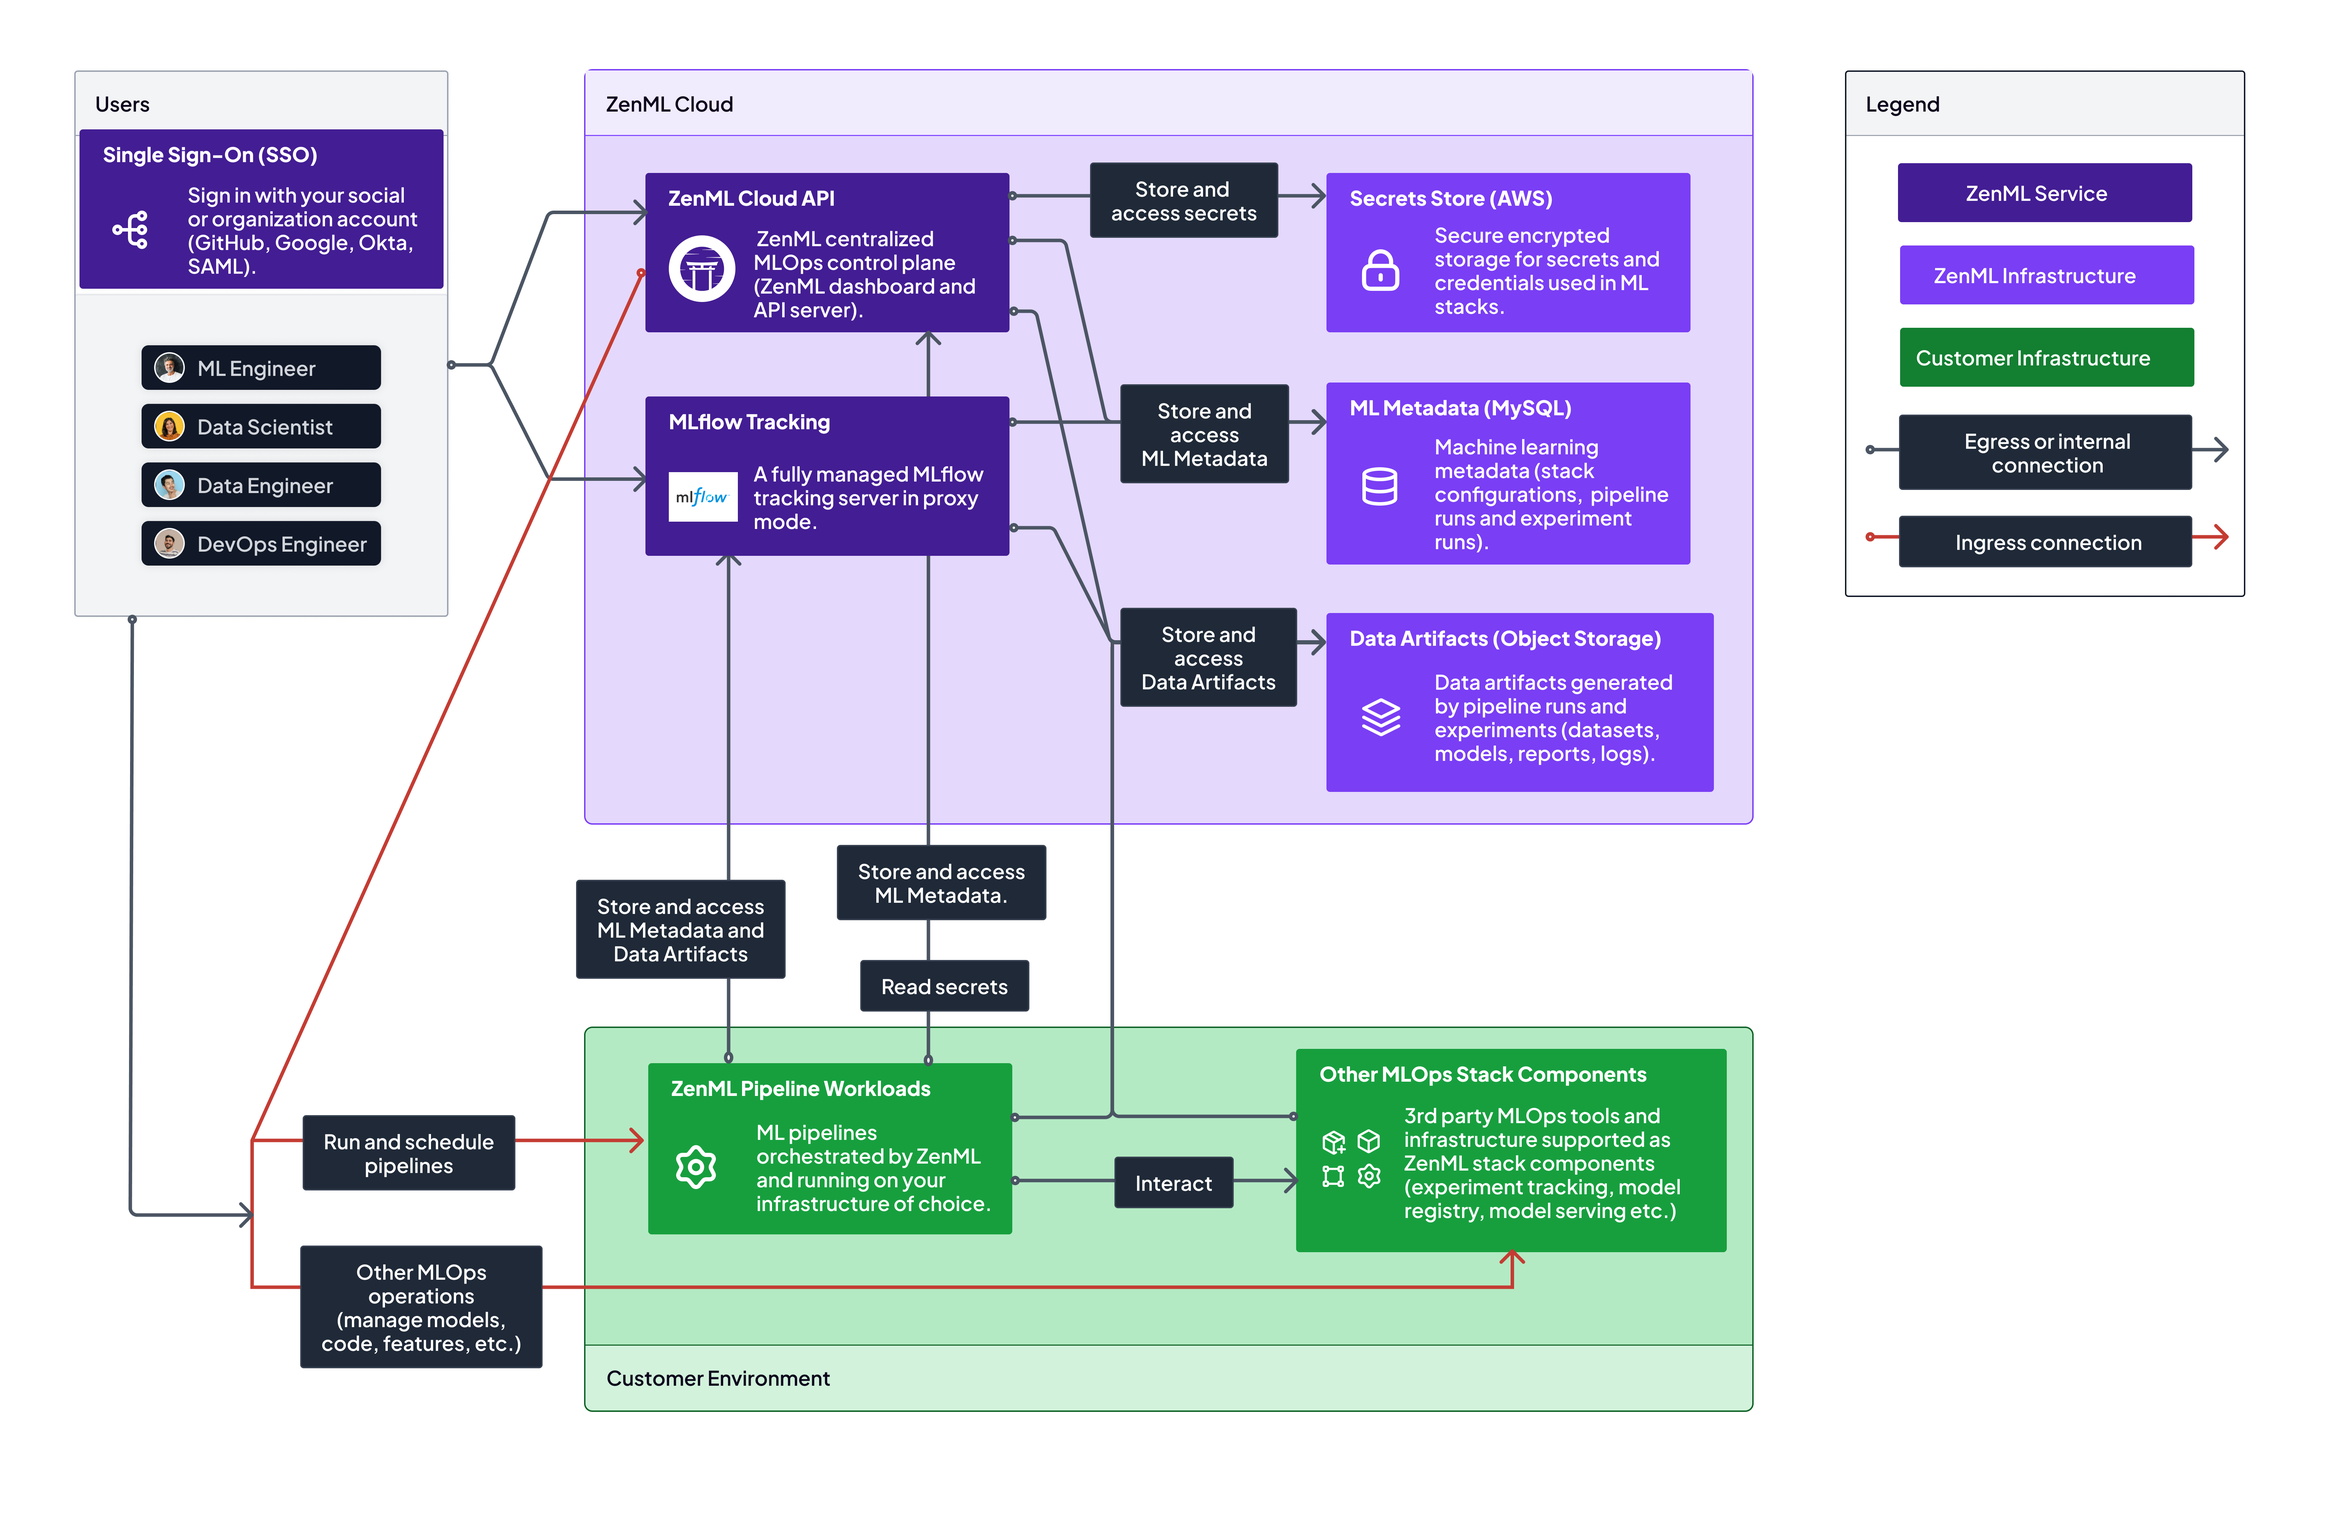
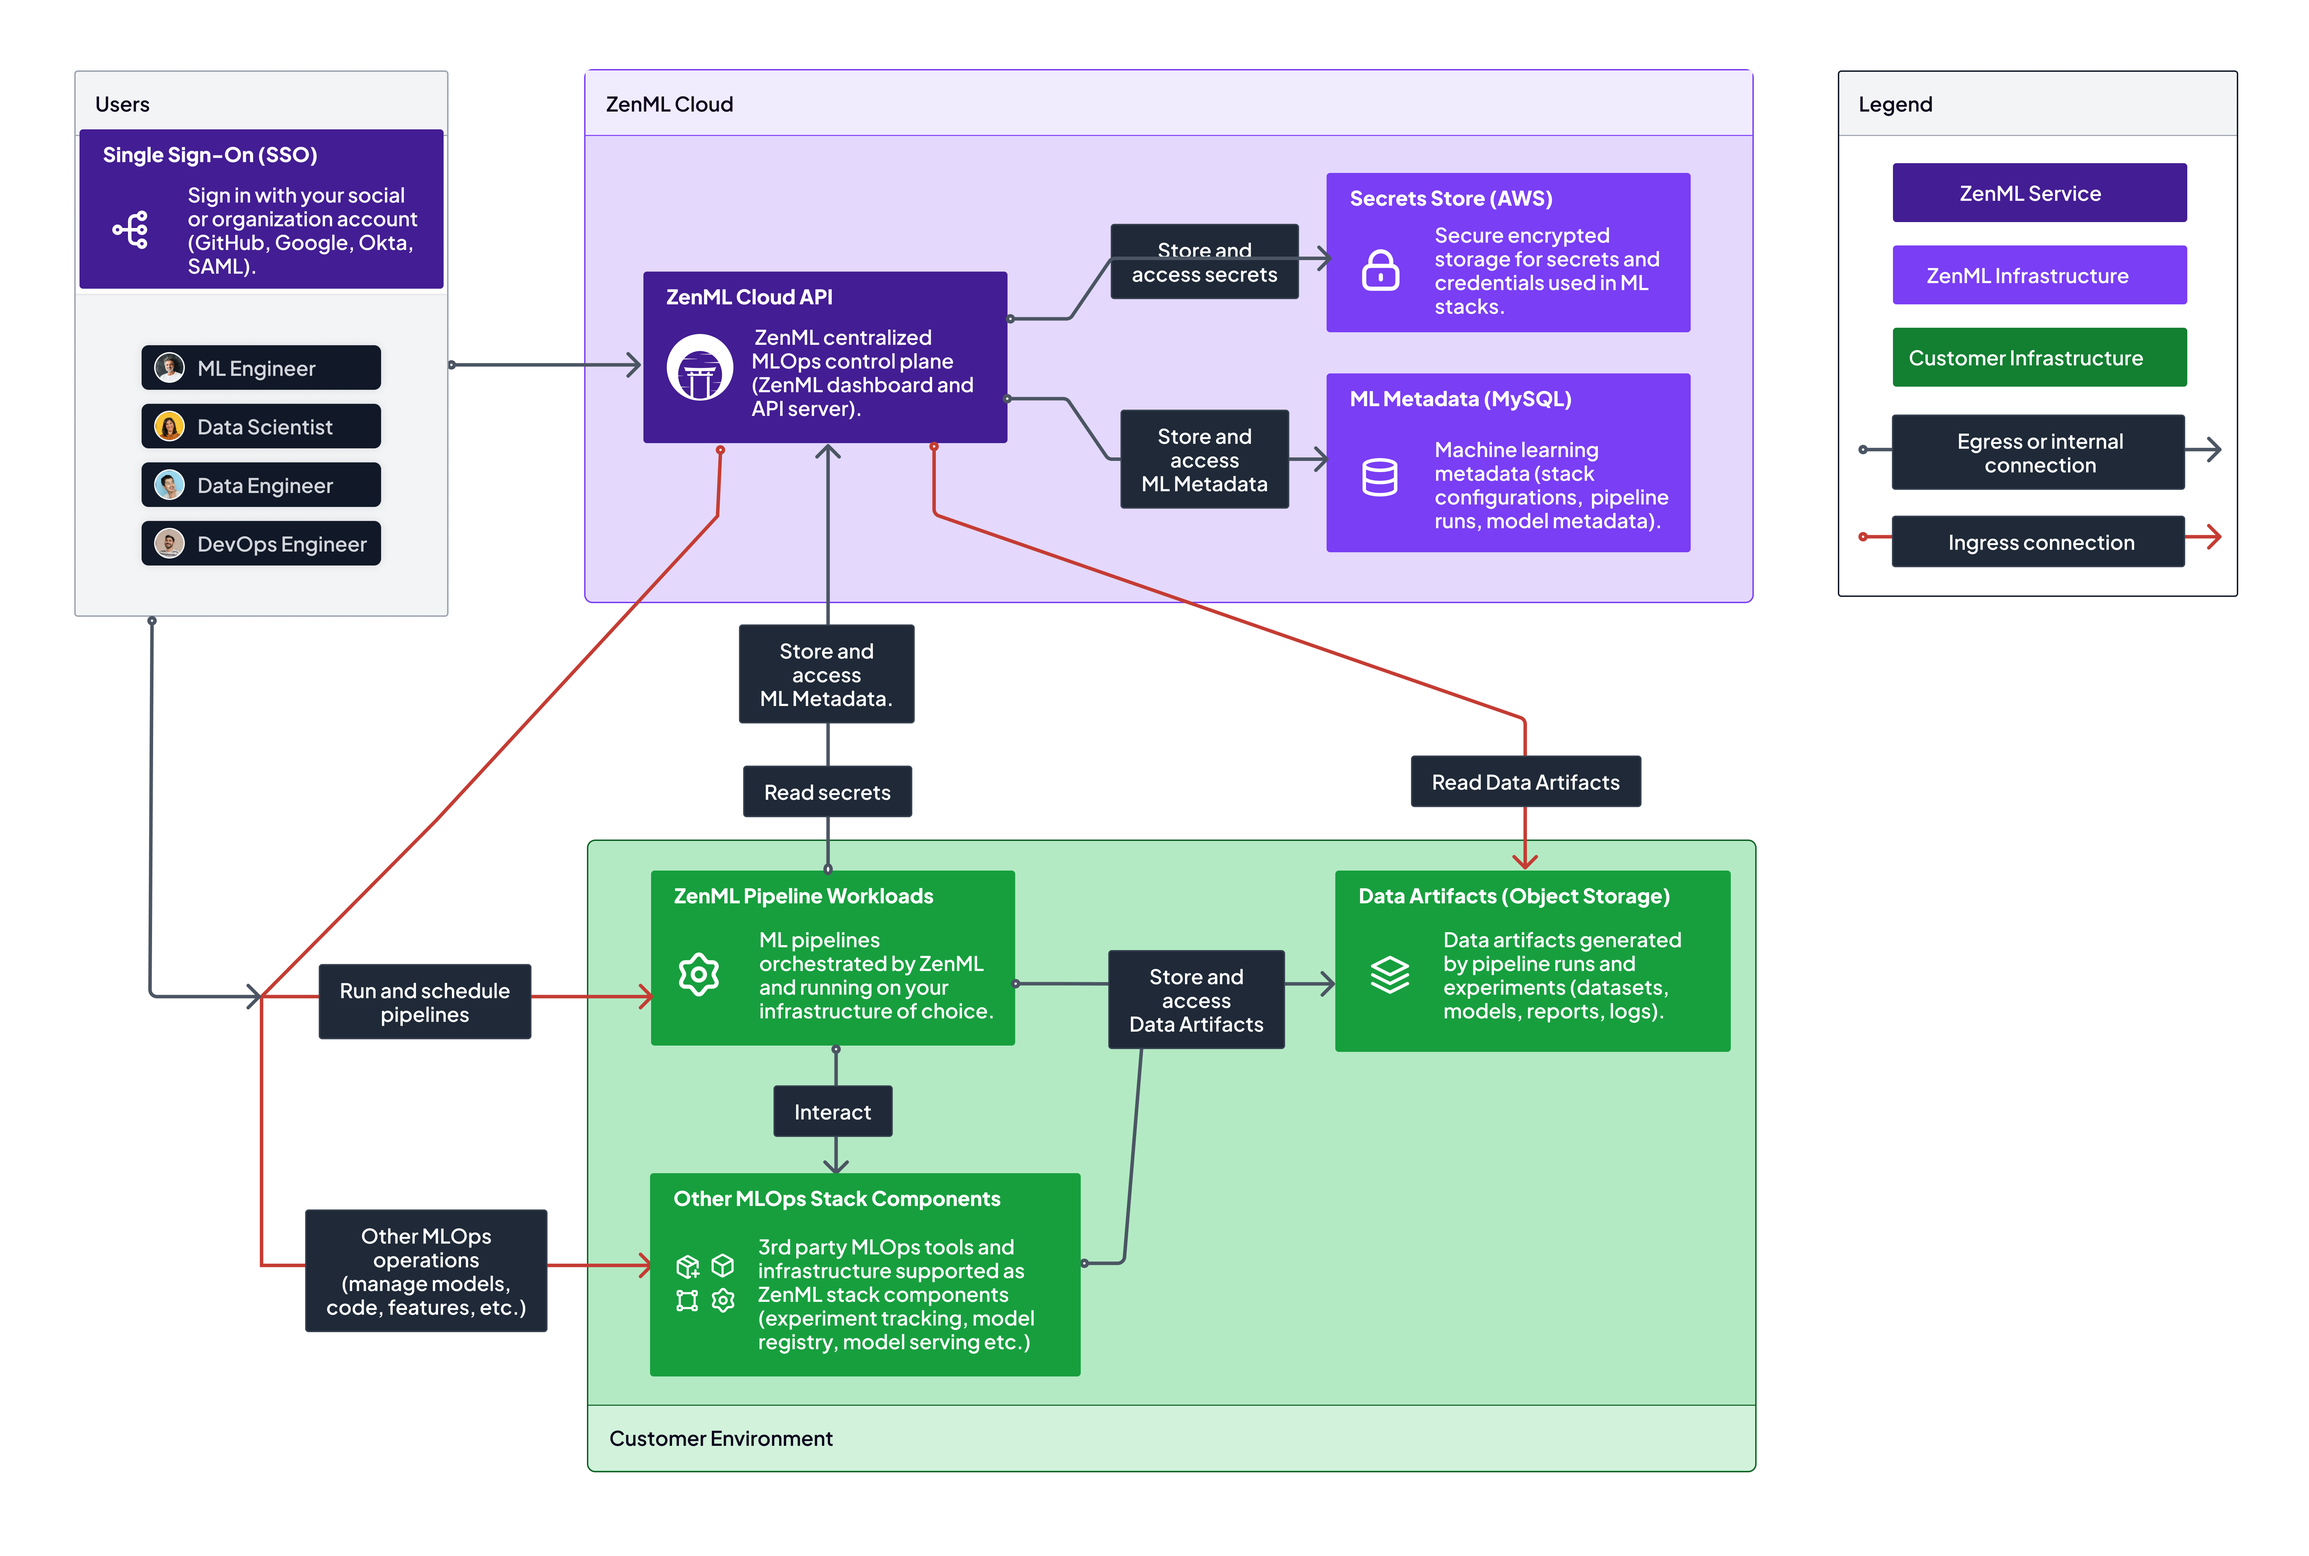
Update architecture diagrams

diff --git a/docs/book/deploying-zenml/zenml-cloud/cloud-system-architecture.md b/docs/book/deploying-zenml/zenml-cloud/cloud-system-architecture.md
@@ -23,76 +23,37 @@ The ZenML Cloud consists of the following moving pieces:
 The above three interact with other MLOps stack components, secrets, and data in varying scenarios described below.
 
 {% hint style="info" %}
-In this phase, the scenarios below are experimental and subject to change. For now, **Scenario 2a** is used by default when you [sign up for ZenML Cloud](https://cloud.zenml.io). For other scenarios, [contact us on Slack](https://zenml.io/slack).
+In this phase, the scenarios below are experimental and subject to change. For now, **Scenario 1** is used by default when you [sign up for ZenML Cloud](https://cloud.zenml.io). For other scenarios, [contact us on Slack](https://zenml.io/slack).
 {% endhint %}
 
-## Scenario 1: Fully SaaS
+## Scenario 1: Full SaaS
 
 <div data-full-width="true">
-<figure><img src="../../.gitbook/assets/cloud_architecture_scenario_1.png" alt=""><figcaption><p>Scenario 1: Fully SaaS deployment</p></figcaption></figure>
+<figure><img src="../../.gitbook/assets/cloud_architecture_scenario_1.png" alt=""><figcaption><p>Scenario 1: Full SaaS deployment</p></figcaption></figure>
 </div>
 
-In this scenario, all services are hosted on the ZenML Cloud infrastructure. The ZenML Cloud API and MLflow Tracking Server store secrets and data on the ZenML side. The Cloud API interacts with the customer cloud for certain actions like triggering pipelines, deploying models etc.
+In this scenario, all services are hosted on the ZenML Cloud infrastructure. Customer secrets and credentials required to access customer infrastructure are stored and managed by the ZenML Cloud.
 
-This scenario is meant for customers who want to quickly get started with ZenML Cloud and can to a certain extent allow ingress connections into their infrastructure from an external SaaS provider. Importantly, the data and secrets are all stored on ZenML Cloud side.
+The ZenML Cloud only stores ML _metadata_ (e.g. pipeline and model tracking and versioning information). All the actual ML data artifacts (e.g. data produced or consumed by pipeline steps, logs and visualizations, models) are stored on the customer cloud. This can be set up quite easily by configuring an [artifact store](../../stacks-and-components/component-guide/artifact-stores/) with your MLOps stack. The ZenML Cloud only needs permissions to read from this data to display artifacts on the ZenML dashboard. The ZenML Cloud also needs direct access to parts of the customer infrastructure services to support dashboard control plane features such as CI/CD, triggering and running pipelines, triggering model deployments etc.
 
-## Scenario 2a: Hybrid SaaS with partial data on ZenML
+This scenario is meant for customers who want to quickly get started with ZenML Cloud and can to a certain extent allow ingress connections into their infrastructure from an external SaaS provider.
+
+## Scenario 2: Hybrid SaaS with Customer Secret Store managed by ZenML
 
 <div data-full-width="true">
-<figure><img src="../../.gitbook/assets/cloud_architecture_scenario_2a.png" alt=""><figcaption><p>Scenario 2a: Hybrid SaaS deployment</p></figcaption></figure>
+<figure><img src="../../.gitbook/assets/cloud_architecture_scenario_2.png" alt=""><figcaption><p>Scenario 2: Hybrid SaaS with Customer Secret Store managed by ZenML</p></figcaption></figure>
 </div>
 
-{% hint style="info" %}
-This is the default architecture that is setup when you when you [sign up for ZenML Cloud](https://cloud.zenml.io). For other scenarios, [contact us on Slack](https://zenml.io/slack).
-{% endhint %}
-
-This scenario builds on top of Scenario 1, with the exception being that some "Data Artifacts" move over the customer cloud, specifically the data produced by ZenML itself. This can be set up quite easily by setting up an [artifact store](../../stacks-and-components/component-guide/artifact-stores/) with your MLOps stack. However, the data logged via MLflow is still stored on the ZenML side (e.g. experiments, metadata, models).
-
-This scenario is suitable for users who want the pipeline-centric data to be kept on their side, while they are less concerned about experiment data produced by MLflow.
-
-## Scenario 2b: Hybrid SaaS with all data stored on the customer side
-
-<div data-full-width="true">
-<figure><img src="../../.gitbook/assets/cloud_architecture_scenario_2b.png" alt=""><figcaption><p>Scenario 2b: Hybrid SaaS with all data stored on the customer side
-</p></figcaption></figure>
-</div>
-
-This scenario builds on top of Scenario 2b, with the exception being that **all** "Data Artifacts" move over the customer cloud, including the ones produced by MLflow.
-
-In this scenario, the ZenML Cloud only stores metadata while the customer cloud keeps potentially sensitive user data. However, if the customer wants access to special ZenML Cloud features like viewing artifacts on the dashboard, triggering pipeline runs, etc then they have to also configure credentials and [service connectors](../../stacks-and-components/auth-management/service-connectors-guide.md) required to access some customer infrastructure services. Ultimately, these credentials end up being stored as secrets on the ZenML side. Therefore, while this scenario keeps the data on customer side, it still gives access to ZenML Cloud to trigger actions via ingress connections over the internet into the customer cloud.
-
-Note, that ZenML encrypts all customer secrets at transit and at rest.
-
-## Scenario 3a: Hybrid SaaS with no data on ZenML side + Customer Secret Store managed by ZenML
-
-<div data-full-width="true">
-<figure><img src="../../.gitbook/assets/cloud_architecture_scenario_3a.png" alt=""><figcaption><p>Scenario 3a: Hybrid SaaS with no data on ZenML side + Customer Secret Store managed by ZenML</p></figcaption></figure>
-</div>
-
-This scenario is a version of Scenario 2b modified to store all sensitive information on the customer side. In this case, the customer connects their own secret store directly to the ZenML Cloud. All ZenML secrets used by running pipelines to access infrastructure services and resources are stored in the customer secret store. This allows users to use [service connectors](../../stacks-and-components/auth-management/service-connectors-guide.md) and the [secrets API](../../user-guide/advanced-guide/secret-management/) to authenticate ZenML pipelines and the ZenML Cloud to 3rd party services and infrastructure while ensuring that credentials are always stored on the customer side.
+This scenario is a version of Scenario 1. modified to store all sensitive information on the customer side. In this case, the customer connects their own secret store directly to the ZenML Cloud. All ZenML secrets used by running pipelines to access infrastructure services and resources are stored in the customer secret store. This allows users to use [service connectors](../../stacks-and-components/auth-management/service-connectors-guide.md) and the [secrets API](../../user-guide/advanced-guide/secret-management/) to authenticate ZenML pipelines and the ZenML Cloud to 3rd party services and infrastructure while ensuring that credentials are always stored on the customer side.
 
 Even though they are stored customer side, access to ZenML secrets is fully managed by the ZenML Cloud. The ZenML Cloud is also allowed to use some of those credentials to connect directly to customer infrastructure services to implement control plane features such as artifact visualization or triggering pipelines. This implies that the secret values are allowed to leave the customer environment to allow their access to be managed centrally by the ZenML Cloud and to enforce access control policies, but the ZenML users and pipelines never have direct access to the secret store.
 
-## Scenario 3b: Hybrid SaaS with no data on ZenML side + Private Secret Store
+All access to customer secrets is, of course, regulated through authentication and RBAC, so that only authorized users can access the secrets. This deployment scenario is meant for customers who want to use the ZenML Cloud but want to keep their secrets on their own infrastructure. 
+
+## Scenario 3: Agent Architecture
 
 <div data-full-width="true">
-<figure><img src="../../.gitbook/assets/cloud_architecture_scenario_3b.png" alt=""><figcaption><p>Scenario 3b: Hybrid SaaS with no data on ZenML side + Private Secret Store</p></figcaption></figure>
-</div>
-
-This is almost the same as Scenario 3a, with one added difference: customer secrets are kept strictly private and are never accessed by the ZenML Cloud. This allows users to use [service connectors](../../stacks-and-components/auth-management/service-connectors-guide.md) and the [secrets API](../../user-guide/advanced-guide/secret-management/) to authenticate ZenML pipelines to 3rd party services and infrastructure while ensuring their secrets never leave the customer environment.
-
-The ZenML Cloud secret store still exists, and this is to still give customers the option to allow ZenML Cloud to connect to their environment to enable features such as visualizing artifacts and triggering actions from the ZenML Cloud dashboard, but this is entirely optional.
-
-This deployment scenario comes with some limitations:
-
-* the ZenML Cloud control plane features such as triggering pipelines and visualizing artifacts are restricted to stack components that have credentials stored in the ZenML cloud
-* ZenML users and pipelines may need to be individually configured to be able to access the secret values kept in the private secret store, because centralized authentication to the secret store is no longer possible through ZenML
-* granular access control to ZenML secrets through RBAC is no longer possible: the ZenML clients can theoretically access any secret in the customer’s secret store unless access is regulated by customer specific means
-
-## Scenario 4: Agent Architecture
-
-<div data-full-width="true">
-<figure><img src="../../.gitbook/assets/cloud_architecture_scenario_4.png" alt=""><figcaption><p>Scenario 3: ZenML Agent deployment</p></figcaption></figure>
+<figure><img src="../../.gitbook/assets/cloud_architecture_scenario_3.png" alt=""><figcaption><p>Scenario 3: ZenML Agent deployment</p></figcaption></figure>
 </div>
 
 This scenario adds a new architectural component into the mix, called the ZenML Agent, which facilitates communication between the two clouds. The customer is responsible for deploying and maintaining the ZenML Agent in their environment. The agent acts as an intermediate step for all operations and information that needs to be exchanged between ZenML cloud and other customer stack components, like the artifact store. This means that all features like visualizing data artifacts in the dashboard and triggering pipelines from the dashboard are fully available, but only the ZenML Agent has access to customer secrets and accesses the customer's infrastructure services. 
@@ -107,14 +68,14 @@ Here is a concrete example of how this works:
 * The agent fetches the artifact and sends it back to the Cloud API.
 * The Cloud API sends the visualization to the dashboard.
 
-## Scenario 5: Fully On-prem
+## Scenario 4: Fully On-prem
 
 <div data-full-width="true">
-<figure><img src="../../.gitbook/assets/cloud_architecture_scenario_5.png" alt=""><figcaption><p>Scenario 4: Fully on-premises deployment</p></figcaption></figure>
+<figure><img src="../../.gitbook/assets/cloud_architecture_scenario_4.png" alt=""><figcaption><p>Scenario 4: Fully on-premises deployment</p></figcaption></figure>
 </div>
 
 In this scenario, all services, data, and secrets are deployed on the customer cloud. This is the opposite of Scenario 1, and is meant for customers who require completely airgapped deployments, for the tightest security standards.
 
-Are you interested in the ZenML Cloud? While in beta, we're looking for early adopters to talk to! [Sign up](https://cloud.zenml.io) and get access to Scenario 2a with a free 30 day trial now!
+Are you interested in the ZenML Cloud? While in beta, we're looking for early adopters to talk to! [Sign up](https://cloud.zenml.io) and get access to Scenario 1. with a free 30 day trial now!
 
 <figure><img src="https://static.scarf.sh/a.png?x-pxid=f0b4f458-0a54-4fcd-aa95-d5ee424815bc" alt="ZenML Scarf"><figcaption></figcaption></figure>
